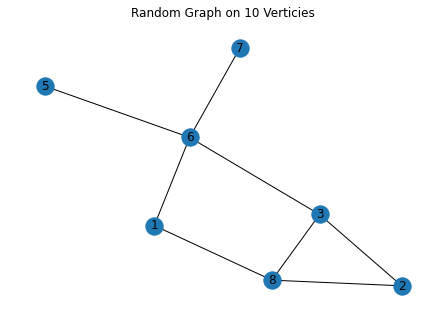
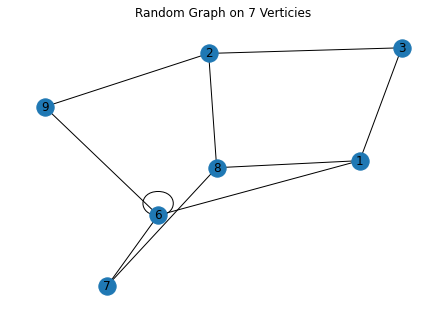
Simple code to draw a random graph.

diff --git a/random_graphs_1.py b/random_graphs_1.py
@@ -18,9 +18,10 @@ zip_r = list(zip(r1,r2))
 print(zip_r)
 print(len(zip_r))
 
-graph_verticies = len(zip_r)
 
 G.add_edges_from(zip_r)
+graph_verticies = G.number_of_nodes()
+
 nx.draw(G, with_labels=True)
 
 
